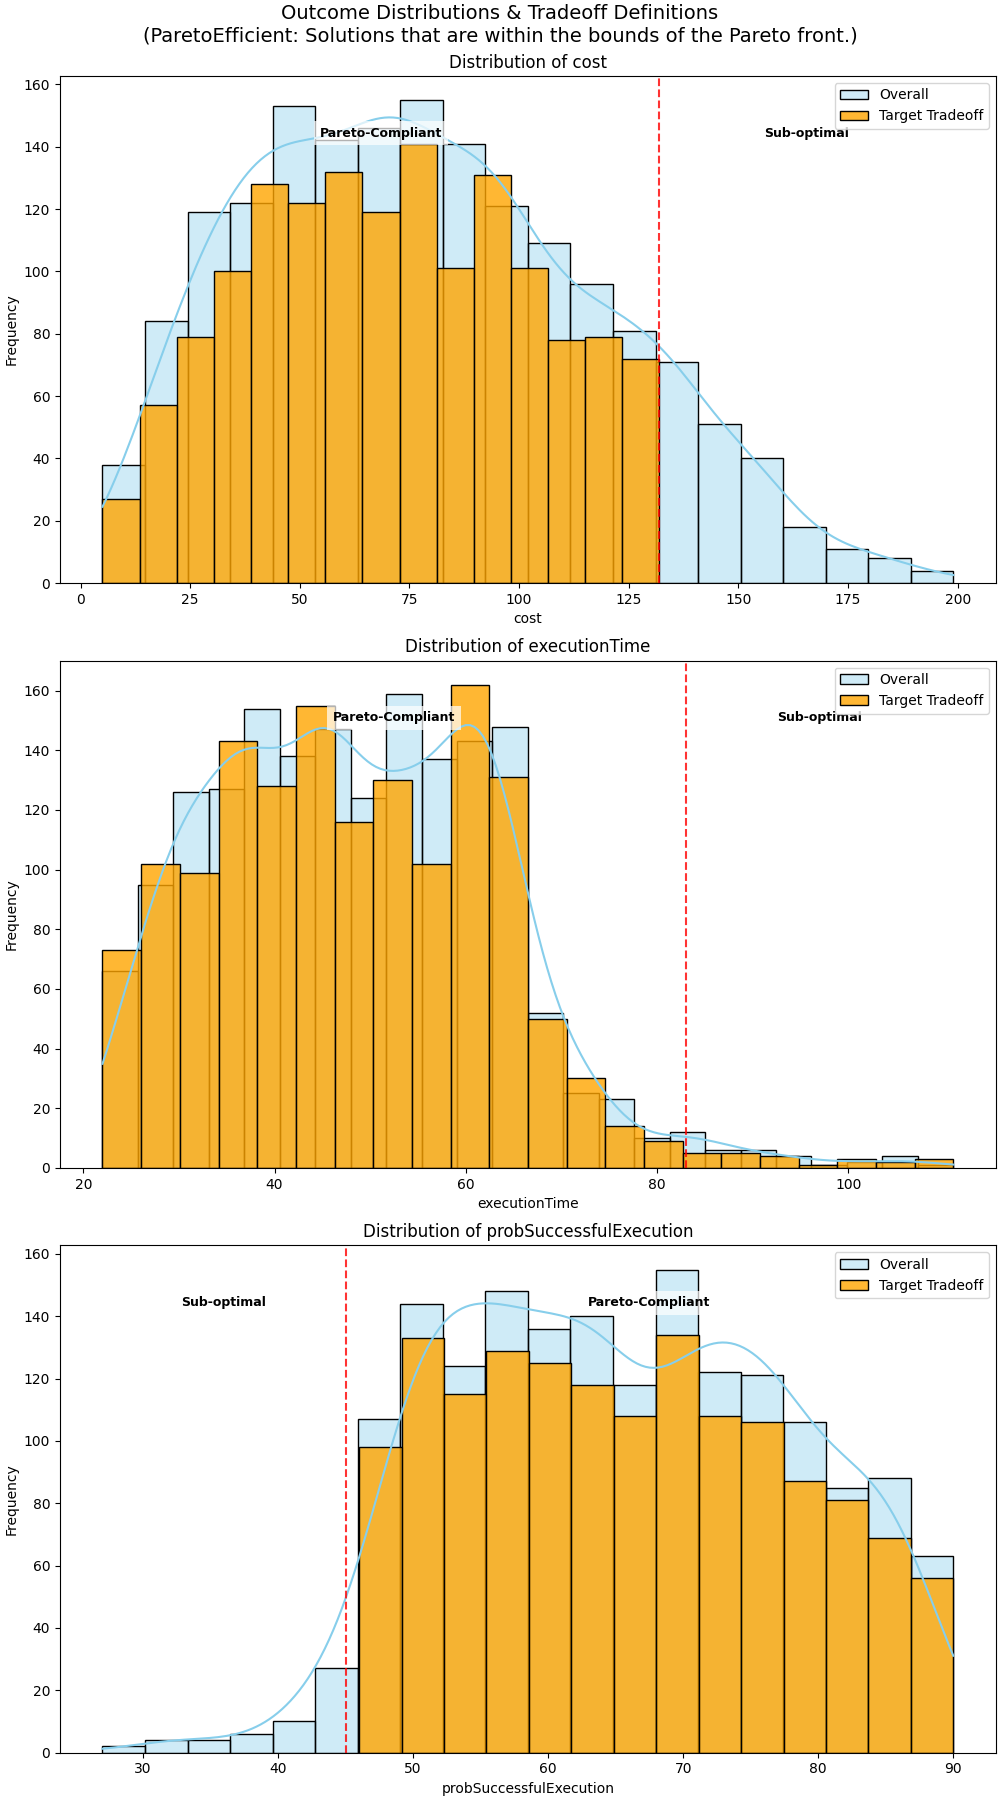
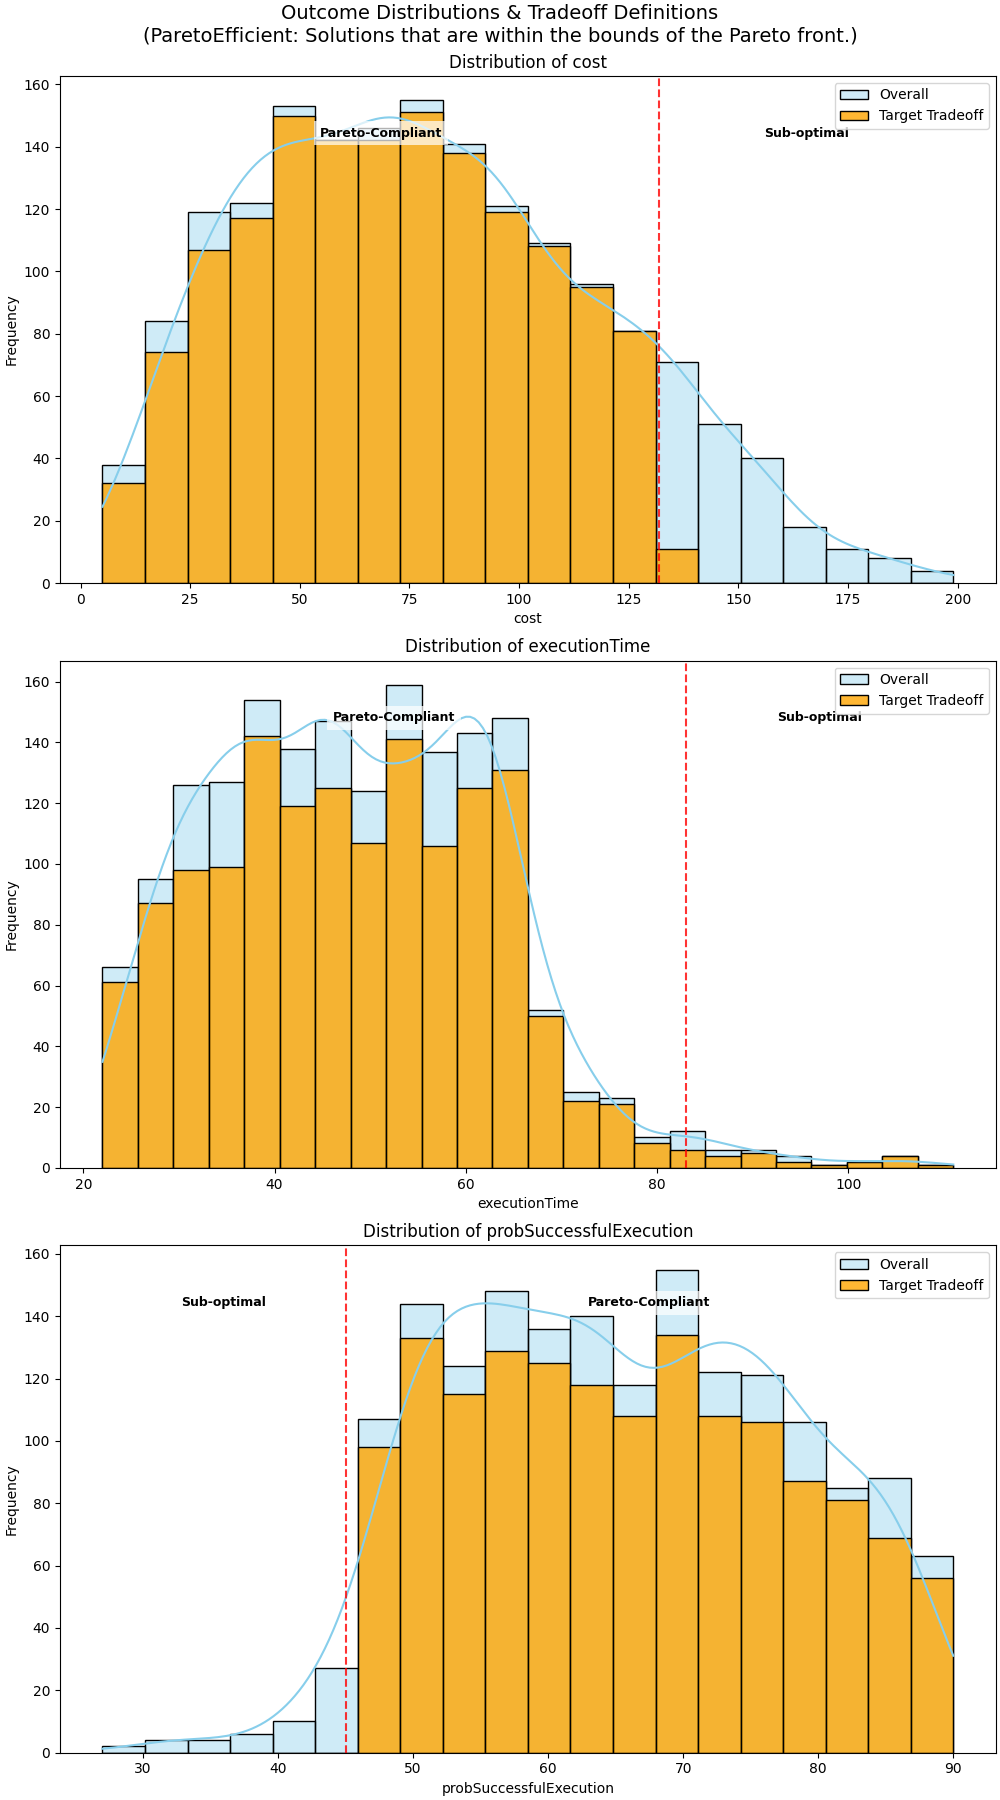
style(viz): Equalize bins in distribution plots for better alignment of highlighted subsets

diff --git a/adept/analysis/visualization.py b/adept/analysis/visualization.py
@@ -43,8 +43,12 @@ def plot_tradeoff_distribution(
             
         data = outcomes_df[col_name]
         
+        # Calculate consistent bins for both histograms
+        # We use 'auto' or a fixed number to ensure they line up perfectly
+        bins = np.histogram_bin_edges(data.dropna(), bins='auto')
+
         # Plot Overall Histogram/KDE
-        sns.histplot(data, kde=True, ax=ax, color='skyblue', label='Overall', alpha=0.4)
+        sns.histplot(data, bins=bins, kde=True, ax=ax, color='skyblue', label='Overall', alpha=0.4)
         
         # Plot Highlighted Subset
         if highlight_indices is not None and len(highlight_indices) > 0:
@@ -52,7 +56,7 @@ def plot_tradeoff_distribution(
             valid_indices = highlight_indices[highlight_indices < len(data)]
             subset_data = data.iloc[valid_indices]
             if not subset_data.empty:
-                sns.histplot(subset_data, kde=False, ax=ax, color='orange', label='Target Tradeoff', alpha=0.8)
+                sns.histplot(subset_data, bins=bins, kde=False, ax=ax, color='orange', label='Target Tradeoff', alpha=0.8)
                 ax.legend()
 
         # Overlay Bins
